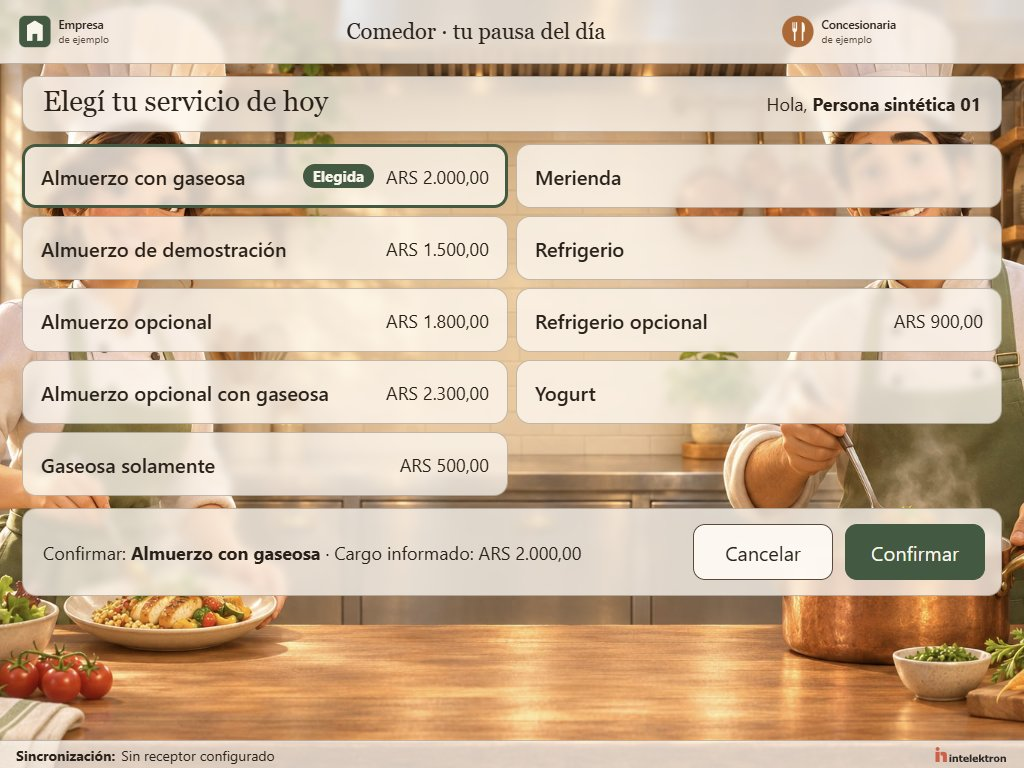
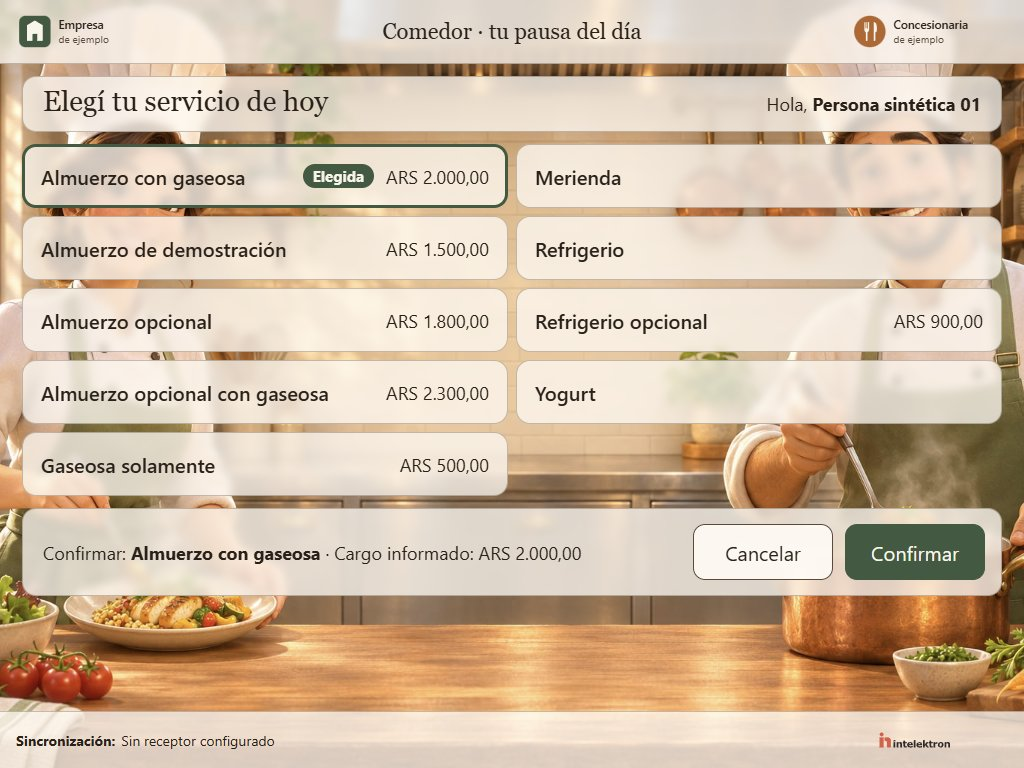
mover-engranaje-al-pie: capturas 06 a 10, textos del engranaje y enlaces del archivado
Evidencia y documentos del change (grupo 2):

- docs/capturas/06 a 10 rehechas por CDP a 1024 x 768 con el puesto nuevo: engranaje en el borde
  inferior derecho, cabecera sin control, pie del mismo alto en todos los estados. Miradas una a una.
- readme.md y el Purpose de la spec presentacion-puesto ubican el engranaje en el pie.
- Los siete enlaces que rompió el archivado de presentar-atencion-tactil (145ccc8) en prompts.md,
  docs/aplicacion-del-curso.md, docs/cobertura-entrega.md y docs/plan-academico.md van a su carpeta
  de archive; el chequeo de enlaces relativos de D8 pasa de 7 rotos a 0, con su control negativo.
- La fila de accesibilidad de docs/aplicacion-del-curso.md suma este change.

Claude-Session: https://claude.ai/code/session_017s6oDeBhSQqyWpZJrUjjbr

Changed region(s): [[0.0, 0.9062, 1.0, 1.0], [0.75, 0.0, 0.9375, 0.0625], [0.3438, 0.0312, 0.625, 0.0625]]

diff --git a/docs/cobertura-entrega.md b/docs/cobertura-entrega.md
@@ -4,7 +4,7 @@ Actualizado el 01/11/2026. La entrega final se evalúa contra la lección 58 vig
 
 | Requisito | Fuente | Evidencia | Estado |
 |---|---|---|---|
-| De 3 a 5 funcionalidades 100 % operativas | L58:82 | Las primeras cuatro piezas fueron la [confirmación atómica](../openspec/specs/registro-consumo/spec.md), la [pantalla de demostración](../openspec/specs/modo-demostracion/spec.md), el [receptor de lotes](../openspec/specs/sincronizacion-lotes/spec.md) y la [habilitación local de RB02](../openspec/specs/habilitacion-local/spec.md) (persona activa, credencial de la sesión, vigencia, regla cero y prioridad), con su [evaluador](../src/Intelektron.INComedor.Domain/EvaluadorHabilitacion.cs) y 41 pruebas. Con [`atender-seleccion-y-confirmacion`](../openspec/changes/archive/2026-10-30-atender-seleccion-y-confirmacion/proposal.md) se suman la atención (identificación simulada por código, catálogo paginado, confirmación con un solo `IntentId` y reconfirmación por cambio de catálogo, en la [máquina de estados](../src/Intelektron.INComedor.Kiosk/Atencion/MaquinaAtencion.cs)) y el comprobante ([envío después del commit](../src/Intelektron.INComedor.Infrastructure.Sqlite/TrabajosImpresion.cs) y [recuperación o reimpresión con permiso OPERATOR](../src/Intelektron.INComedor.Infrastructure.Sqlite/Asistencia.cs)), con 81 pruebas nuevas y el puesto real recorrido el 30/10. Con [`recibir-lotes-idempotente`](../openspec/changes/archive/2026-10-30-recibir-lotes-idempotente/proposal.md) el receptor ingiere lotes idempotentes sobre SQL Server con TLS mutuo ([ingesta](../src/Intelektron.INComedor.Sync.Api/Ingesta/IngestaLotes.cs)) y el puesto envía su outbox sin cortar la atención ([sincronizador](../src/Intelektron.INComedor.Infrastructure.Sqlite/SincronizadorPuesto.cs)), con 142 pruebas nuevas. Todas las pruebas, con el E2E, corren en la CI de `windows-latest`; al integrarse el #5 en `final-project-dw` estaban en verde ([corrida 41154943372](https://github.com/DaveWalf/AI4Devs-finalproject/actions/runs/41154943372), cuatro intentos sobre el mismo commit), y su cifra está en la [§2.6 del README](../readme.md#26-tests). En la rama de [`presentar-atencion-tactil`](../openspec/changes/presentar-atencion-tactil/proposal.md), todavía sin integrar en `final-project-dw`, la atención suma su aspecto táctil: distribución por cantidad (hasta diez juntas, en una o dos columnas; desde once, páginas de diez), opción sin cargo sin importe, fondo «Cocina con sonrisas», cabecera con logos locales validados, Configuración con el estilo visual y la impresora simulada, comprobante en pantalla y ventana maximizada, con 65 casos de prueba nuevos, 3 de ellos en la ventana real, y las [capturas](../readme.md#cómo-ver-la-demostración) a 1024 × 768. | Cubierto |
+| De 3 a 5 funcionalidades 100 % operativas | L58:82 | Las primeras cuatro piezas fueron la [confirmación atómica](../openspec/specs/registro-consumo/spec.md), la [pantalla de demostración](../openspec/specs/modo-demostracion/spec.md), el [receptor de lotes](../openspec/specs/sincronizacion-lotes/spec.md) y la [habilitación local de RB02](../openspec/specs/habilitacion-local/spec.md) (persona activa, credencial de la sesión, vigencia, regla cero y prioridad), con su [evaluador](../src/Intelektron.INComedor.Domain/EvaluadorHabilitacion.cs) y 41 pruebas. Con [`atender-seleccion-y-confirmacion`](../openspec/changes/archive/2026-10-30-atender-seleccion-y-confirmacion/proposal.md) se suman la atención (identificación simulada por código, catálogo paginado, confirmación con un solo `IntentId` y reconfirmación por cambio de catálogo, en la [máquina de estados](../src/Intelektron.INComedor.Kiosk/Atencion/MaquinaAtencion.cs)) y el comprobante ([envío después del commit](../src/Intelektron.INComedor.Infrastructure.Sqlite/TrabajosImpresion.cs) y [recuperación o reimpresión con permiso OPERATOR](../src/Intelektron.INComedor.Infrastructure.Sqlite/Asistencia.cs)), con 81 pruebas nuevas y el puesto real recorrido el 30/10. Con [`recibir-lotes-idempotente`](../openspec/changes/archive/2026-10-30-recibir-lotes-idempotente/proposal.md) el receptor ingiere lotes idempotentes sobre SQL Server con TLS mutuo ([ingesta](../src/Intelektron.INComedor.Sync.Api/Ingesta/IngestaLotes.cs)) y el puesto envía su outbox sin cortar la atención ([sincronizador](../src/Intelektron.INComedor.Infrastructure.Sqlite/SincronizadorPuesto.cs)), con 142 pruebas nuevas. Todas las pruebas, con el E2E, corren en la CI de `windows-latest`; al integrarse el #5 en `final-project-dw` estaban en verde ([corrida 41154943372](https://github.com/DaveWalf/AI4Devs-finalproject/actions/runs/41154943372), cuatro intentos sobre el mismo commit), y su cifra está en la [§2.6 del README](../readme.md#26-tests). En la rama de [`presentar-atencion-tactil`](../openspec/changes/archive/2026-11-03-presentar-atencion-tactil/proposal.md), todavía sin integrar en `final-project-dw`, la atención suma su aspecto táctil: distribución por cantidad (hasta diez juntas, en una o dos columnas; desde once, páginas de diez), opción sin cargo sin importe, fondo «Cocina con sonrisas», cabecera con logos locales validados, Configuración con el estilo visual y la impresora simulada, comprobante en pantalla y ventana maximizada, con 65 casos de prueba nuevos, 3 de ellos en la ventana real, y las [capturas](../readme.md#cómo-ver-la-demostración) a 1024 × 768. | Cubierto |
 | Tests unitarios sobre la lógica clave | L58:94 | 68 pruebas de dominio en [Domain.Tests](../tests/Intelektron.INComedor.Domain.Tests/EvaluadorCupoTests.cs): fecha de negocio, cupo, habilitación y value objects, y 23 de Contracts. | Cubierto |
 | Tests de integración entre componentes | L58:95 | 117 pruebas sobre SQLite real, como [`CaidasYConcurrenciaTests`](../tests/Intelektron.INComedor.Infrastructure.Sqlite.Tests/CaidasYConcurrenciaTests.cs); 62 contra el receptor real (Kestrel, TLS mutuo y SQL Server), como [`LoteIdempotenteTests`](../tests/Intelektron.INComedor.Sync.Api.Tests/LoteIdempotenteTests.cs), y 5 de punta a punta en [`EnvioDeLotesIntegradoTests`](../tests/Intelektron.INComedor.Kiosk.Tests/EnvioDeLotesIntegradoTests.cs). Corren en la CI, en verde en la [corrida 41154943372](https://github.com/DaveWalf/AI4Devs-finalproject/actions/runs/41154943372). | Cubierto |
 | Al menos un test E2E del flujo principal | L58:96 | [`FlujoPrincipalTests`](../tests/Intelektron.INComedor.E2E.Tests/FlujoPrincipalTests.cs) recorre el escenario E2E de [`pruebas.md`](pruebas.md#pruebas-previstas) sobre los EXE del puesto y del receptor, por CDP, con el receptor apagado y recuperado, y también contra el EXE del paquete publicado. Lo trajo [`demostrar-flujo-de-punta-a-punta`](../openspec/changes/archive/2026-10-30-demostrar-flujo-de-punta-a-punta/proposal.md). Corre en la CI de `windows-latest` ([corridas 41108336041](https://github.com/DaveWalf/AI4Devs-finalproject/actions/runs/41108336041) y [41154943372](https://github.com/DaveWalf/AI4Devs-finalproject/actions/runs/41154943372)). | Cubierto |

diff --git a/openspec/changes/mover-engranaje-al-pie/tasks.md b/openspec/changes/mover-engranaje-al-pie/tasks.md
@@ -39,9 +39,38 @@ Las pruebas existentes no se tocan, salvo `CabeceraTests.En_reposo_un_solo_boton
 
 ## 2. Evidencia y documentos
 
-- [ ] 2.1 Rehacer `docs/capturas/06` a `10` con el procedimiento de D4, mirarlas (engranaje en el borde inferior derecho, cabecera sin control, nada cortado a 1024 × 768) y verificar con `git diff --stat -- docs/capturas` que sólo cambian esas cinco
-- [ ] 2.2 Actualizar en `readme.md` el texto que ubica el engranaje en la cabecera (línea 314 en `2ca6559`) y el texto alternativo de la captura 06; en `openspec/specs/presentacion-puesto/spec.md`, el `Purpose`, que nombra «la cabecera con los logos y el engranaje». Verificar con `git grep -n -i "engranaje de la cabecera\|cabecera con los logos y el engranaje"` sin resultados
-- [ ] 2.3 Llevar los enlaces de D5 a `openspec/changes/archive/2026-11-03-presentar-atencion-tactil/` y sumar `mover-engranaje-al-pie` a la fila de accesibilidad de `docs/aplicacion-del-curso.md`. Verificar con el chequeo de enlaces relativos de D8 de `mostrar-aplicacion-del-curso` (`enlaces rotos: 0`, con su control negativo) y con `git grep -n "openspec/changes/presentar-atencion-tactil/" -- "*.md"` sin resultados fuera de `openspec/changes/archive/`
+- [x] 2.1 Rehacer `docs/capturas/06` a `10` con el procedimiento de D4, mirarlas (engranaje en el borde inferior derecho, cabecera sin control, nada cortado a 1024 × 768) y verificar con `git diff --stat -- docs/capturas` que sólo cambian esas cinco
+  Capturas por CDP a 1024 × 768 (JPEG a escala CSS, calidad 85), con el puesto compilado de este commit en una carpeta nueva de `INCOMEDOR_DEMO_DIR` por corrida y sin receptor, como las anteriores: `06-reposo-tactil.jpg`, `07-seleccion-nueve.jpg`, `09-comprobante-en-pantalla.jpg` y `10-configuracion.jpg` con `INCOMEDOR_CATALOGO=nueve`; `08-quince-primera-pagina.jpg` sin la variable. Procedimiento: PowerShell 7 con WebSocket crudo sobre el CDP del puesto (`Emulation.setDeviceMetricsOverride` y `Page.captureScreenshot`), un script de la sesión que no entra al repo; cada corrida cierra el puesto con `taskkill /T` y borra su carpeta.
+  Miradas con `Read` contra D4: **06** engranaje en el borde inferior derecho, a la derecha de la marca Intelektron, cabecera con los dos logos y el título y sin ningún control; **10** Configuración abierta sobre el reposo, con el engranaje del pie atenuado detrás del velo (el pie es inerte) y el diálogo entero dentro de 768; **07** nueve opciones en 5 + 4 con «Almuerzo con gaseosa» y «Elegida», «Cancelar» y «Confirmar» visibles, y en el pie el lugar del engranaje vacío; **08** diez opciones en dos columnas, «Página 1 de 2», pie igual; **09** el comprobante completo, pie igual. En las cinco la cabecera no tiene control, nada queda cortado y el pie no cambia de alto. No hizo falta corregir nada.
+  ```
+  git diff --stat -- docs/capturas
+   docs/capturas/06-reposo-tactil.jpg           | Bin 131817 -> 128986 bytes
+   docs/capturas/07-seleccion-nueve.jpg         | Bin 136162 -> 133496 bytes
+   docs/capturas/08-quince-primera-pagina.jpg   | Bin 134608 -> 131886 bytes
+   docs/capturas/09-comprobante-en-pantalla.jpg | Bin 136282 -> 132959 bytes
+   docs/capturas/10-configuracion.jpg           | Bin 111766 -> 109571 bytes
+   5 files changed
+  ```
+- [x] 2.2 Actualizar en `readme.md` el texto que ubica el engranaje en la cabecera (línea 314 en `2ca6559`) y el texto alternativo de la captura 06; en `openspec/specs/presentacion-puesto/spec.md`, el `Purpose`, que nombra «la cabecera con los logos y el engranaje». Verificar con `git grep -n -i "engranaje de la cabecera\|cabecera con los logos y el engranaje"` sin resultados
+  `readme.md:314` pasa a «El engranaje del pie, en el borde inferior derecho al lado de la marca Intelektron y sólo en reposo, abre Configuración…»; el texto alternativo de la captura 06 suma «en el borde inferior derecho»; el `Purpose` de `openspec/specs/presentacion-puesto/spec.md` pasa a «la cabecera con los logos, el engranaje en el pie, la ventana…».
+  ```
+  git grep -n -i "engranaje de la cabecera\|cabecera con los logos y el engranaje" -- . ':!openspec/changes/archive' ':!openspec/changes/mover-engranaje-al-pie'
+  (sin salida)  exit=1
+  ```
+  Con el literal de la tarea, sin exclusiones, el grep todavía encuentra dos líneas que no son texto vivo: el delta congelado de `openspec/changes/archive/2026-11-03-presentar-atencion-tactil/specs/presentacion-puesto/spec.md:5` y esta misma tarea, que cita la frase.
+- [x] 2.3 Llevar los enlaces de D5 a `openspec/changes/archive/2026-11-03-presentar-atencion-tactil/` y sumar `mover-engranaje-al-pie` a la fila de accesibilidad de `docs/aplicacion-del-curso.md`. Verificar con el chequeo de enlaces relativos de D8 de `mostrar-aplicacion-del-curso` (`enlaces rotos: 0`, con su control negativo) y con `git grep -n "openspec/changes/presentar-atencion-tactil/" -- "*.md"` sin resultados fuera de `openspec/changes/archive/`
+  Los siete enlaces de D5 (`prompts.md:123` ×3, `docs/aplicacion-del-curso.md:70`, `docs/cobertura-entrega.md:7`, `docs/plan-academico.md:83-84`) van a `openspec/changes/archive/2026-11-03-presentar-atencion-tactil/`; la fila de accesibilidad de `docs/aplicacion-del-curso.md` suma `mover-engranaje-al-pie` como nombre, sin enlace propio, para no repetir el defecto de D5 cuando este change se archive. Chequeo de enlaces relativos de D8 de `mostrar-aplicacion-del-curso` (el script, copiado tal cual a un archivo de la sesión), sobre `prompts.md`, `readme.md`, `docs/aplicacion-del-curso.md`, `docs/cobertura-entrega.md` y `docs/plan-academico.md`:
+  ```
+  antes:  ROTO prompts.md:123 ×3 · ROTO docs/aplicacion-del-curso.md:70 · ROTO docs/cobertura-entrega.md:7 · ROTO docs/plan-academico.md:83 y :84
+          enlaces rotos: 7
+  control negativo (.md con un archivo inexistente, un ancla falsa y un ancla válida):
+          ROTO …\a.md:2 noexiste.md · ANCLA …\a.md:2 a.md#falsa
+          enlaces rotos: 2
+  después: enlaces rotos: 0
+  git grep -n "openspec/changes/presentar-atencion-tactil/" -- "*.md"   (archivos con resultados)
+          openspec/changes/archive/2026-11-03-presentar-atencion-tactil/tasks.md · openspec/changes/mover-engranaje-al-pie/design.md · openspec/changes/mover-engranaje-al-pie/tasks.md
+  ```
+  Ninguno está fuera de `openspec/changes/archive/` salvo `design.md` y `tasks.md` de este change, que citan la ruta vieja para describir el defecto.
 
 ## 3. Integración
 

diff --git a/docs/aplicacion-del-curso.md b/docs/aplicacion-del-curso.md
@@ -67,7 +67,7 @@ Las citas siguen la numeración del curso v20261027, la vigente: `L58:232` es la
 | Capas o hexagonal con criterio | lección 95 | Aplicada | Proyectos separados por responsabilidad: [Domain](../src/Intelektron.INComedor.Domain/EvaluadorCupo.cs), [Infrastructure.Sqlite](../src/Intelektron.INComedor.Infrastructure.Sqlite/UnidadConfirmacion.cs), [Contracts](../src/Intelektron.INComedor.Contracts/Eventos/EventosSalida.cs), [Kiosk](../src/Intelektron.INComedor.Kiosk/MainWindow.xaml.cs) y [Sync.Api](../src/Intelektron.INComedor.Sync.Api/Program.cs). Sin hexagonal completo en el MVP. |
 | Value objects con invariantes y entidades no anémicas | lección 95 | Aplicada | [`CodigoIntencion`](../src/Intelektron.INComedor.Domain/CodigoIntencion.cs), [`FechaNegocio`](../src/Intelektron.INComedor.Domain/FechaNegocio.cs) y [`ClaveCupo`](../src/Intelektron.INComedor.Domain/ClaveCupo.cs), con sus [pruebas de invariantes](../tests/Intelektron.INComedor.Domain.Tests/ValueObjectsTests.cs). |
 | Dependencias mínimas | sesión 10 | Aplicada | Sin ORM en el puesto: `Microsoft.Data.Sqlite` y SQL explícito para RB06, por regla de [`AGENTS.md`](../AGENTS.md) y con versiones fijadas en [`Directory.Packages.props`](../Directory.Packages.props). |
-| Componentes pequeños, estados de UI y accesibilidad WCAG 2.2 AA | lección 101, sesión 10 | Pendiente | Los estados (reposo, selección, confirmando, resultado y error, con foco y teclado) los trajo `atender-seleccion-y-confirmacion`. El change [`presentar-atencion-tactil`](../openspec/changes/presentar-atencion-tactil/proposal.md), sin integrar todavía en la rama final, suma componentes chicos ([`PanelConfiguracion`](../src/Intelektron.INComedor.Kiosk/Atencion/PanelConfiguracion.razor), [`FranjaImpresora`](../src/Intelektron.INComedor.Kiosk/Atencion/FranjaImpresora.razor)), acciones de 56 px, la elegida marcada también con texto, un diálogo modal con Escape y movimiento reducido, medidos en la ventana real por [`PresentacionTactilTests`](../tests/Intelektron.INComedor.E2E.Tests/PresentacionTactilTests.cs). Sigue pendiente lo que el change deja fuera: el contraste certificado y las escalas de Windows de 125 y 150 %. |
+| Componentes pequeños, estados de UI y accesibilidad WCAG 2.2 AA | lección 101, sesión 10 | Pendiente | Los estados (reposo, selección, confirmando, resultado y error, con foco y teclado) los trajo `atender-seleccion-y-confirmacion`. El change [`presentar-atencion-tactil`](../openspec/changes/archive/2026-11-03-presentar-atencion-tactil/proposal.md), sin integrar todavía en la rama final, suma componentes chicos ([`PanelConfiguracion`](../src/Intelektron.INComedor.Kiosk/Atencion/PanelConfiguracion.razor), [`FranjaImpresora`](../src/Intelektron.INComedor.Kiosk/Atencion/FranjaImpresora.razor)), acciones de 56 px, la elegida marcada también con texto, un diálogo modal con Escape y movimiento reducido, medidos en la ventana real por [`PresentacionTactilTests`](../tests/Intelektron.INComedor.E2E.Tests/PresentacionTactilTests.cs). El change `mover-engranaje-al-pie`, en la misma rama, lleva el engranaje al borde inferior derecho del pie, con el pie de 56 px y su posición medida en esa misma prueba. Sigue pendiente lo que el change deja fuera: el contraste certificado y las escalas de Windows de 125 y 150 %. |
 | Refactor con tests de caracterización | sesión 9 | Aplicada | [`ea6e7d5`](https://github.com/DaveWalf/AI4Devs-finalproject/commit/ea6e7d5) movió los eventos de outbox a `Contracts` sin cambiar su JSON, y [`ContratoEventosTests`](../tests/Intelektron.INComedor.Infrastructure.Sqlite.Tests/ContratoEventosTests.cs) fijó ese JSON. |
 
 ### Pruebas

diff --git a/prompts.md b/prompts.md
@@ -120,7 +120,7 @@ Los ajustes manuales que el autor hizo sobre lo que produjo la IA, cada uno con 
     - tres variables y no una, porque aislar los datos, cambiar el receptor y abrir la depuración son cosas distintas.
 
     En el apply, la tarea que abre el puesto sin variables creaba la carpeta de demostración del usuario, que el paso del apply sólo dejaba leer. El autor eligió correrla y borrar la carpeta al final, porque antes no existía. Evidencia: los puntos 8 y 9 de «Para el gate de David» en el [proposal](openspec/changes/archive/2026-10-30-demostrar-flujo-de-punta-a-punta/proposal.md#para-el-gate-de-david), D2 y D3 del [design](openspec/changes/archive/2026-10-30-demostrar-flujo-de-punta-a-punta/design.md) y las salidas de 3.3 y 3.4 en las [tareas](openspec/changes/archive/2026-10-30-demostrar-flujo-de-punta-a-punta/tasks.md).
-13. **La maqueta antes de la spec, y tres pruebas en el gate.** Entre el 01 y el 03/11 el autor definió en una maqueta, hecha con Codex fuera del repo, cómo se ve y se comporta la atención: la distribución por cantidad, los criterios táctiles, la dirección gráfica «Cocina con sonrisas», los logos y el estilo configurable. El 03/11 decidió dejar la maqueta y probarlo en el ejecutable, y sus decisiones pasaron a requisitos en el change `presentar-atencion-tactil`. En el gate aprobó tal cual las ocho decisiones tomadas, entre ellas cambiar tres pruebas existentes, sólo en sus números, por las páginas de diez (`TotalPaginas` de 3 a 2, y 6 a 10 opciones visibles en dos pruebas de pantalla), la marca Intelektron en el repo como su dueño y el fondo generado por Codex con su prompt como procedencia; dio su talla, M. Evidencia: «Para el gate de David» en el [proposal](openspec/changes/presentar-atencion-tactil/proposal.md#para-el-gate-de-david), D1 del [design](openspec/changes/presentar-atencion-tactil/design.md) y la tarea 2.2 de sus [tareas](openspec/changes/presentar-atencion-tactil/tasks.md), con el diff pegado.
+13. **La maqueta antes de la spec, y tres pruebas en el gate.** Entre el 01 y el 03/11 el autor definió en una maqueta, hecha con Codex fuera del repo, cómo se ve y se comporta la atención: la distribución por cantidad, los criterios táctiles, la dirección gráfica «Cocina con sonrisas», los logos y el estilo configurable. El 03/11 decidió dejar la maqueta y probarlo en el ejecutable, y sus decisiones pasaron a requisitos en el change `presentar-atencion-tactil`. En el gate aprobó tal cual las ocho decisiones tomadas, entre ellas cambiar tres pruebas existentes, sólo en sus números, por las páginas de diez (`TotalPaginas` de 3 a 2, y 6 a 10 opciones visibles en dos pruebas de pantalla), la marca Intelektron en el repo como su dueño y el fondo generado por Codex con su prompt como procedencia; dio su talla, M. Evidencia: «Para el gate de David» en el [proposal](openspec/changes/archive/2026-11-03-presentar-atencion-tactil/proposal.md#para-el-gate-de-david), D1 del [design](openspec/changes/archive/2026-11-03-presentar-atencion-tactil/design.md) y la tarea 2.2 de sus [tareas](openspec/changes/archive/2026-11-03-presentar-atencion-tactil/tasks.md), con el diff pegado.
 
 ## Anexo A. Registro de la entrega 1 (29/09/2026)
 

diff --git a/docs/plan-academico.md b/docs/plan-academico.md
@@ -80,8 +80,8 @@ Desde `evaluar-habilitacion-local` cada change declara dos tallas, la de David y
 | [`recibir-lotes-idempotente`](../openspec/changes/archive/2026-10-30-recibir-lotes-idempotente/proposal.md#tallas) | La IA (Claude Code, Opus 5.5), 30/10/2026 | S | 2 a 4 h | 2,9 a 5,7 h |
 | [`demostrar-flujo-de-punta-a-punta`](../openspec/changes/archive/2026-10-30-demostrar-flujo-de-punta-a-punta/proposal.md#tallas) | David, 30/10/2026 | S | 2 a 4 h | 2,9 a 5,7 h |
 | [`demostrar-flujo-de-punta-a-punta`](../openspec/changes/archive/2026-10-30-demostrar-flujo-de-punta-a-punta/proposal.md#tallas) | La IA (Claude Code, Opus 5.5), 30/10/2026 | S | 2 a 4 h | 2,9 a 5,7 h |
-| [`presentar-atencion-tactil`](../openspec/changes/presentar-atencion-tactil/proposal.md#tallas) | David, 03/11/2026 | M | 4 a 8 h | 5,7 a 11,4 h |
-| [`presentar-atencion-tactil`](../openspec/changes/presentar-atencion-tactil/proposal.md#tallas) | La IA (Claude Code, Opus 5.5), 03/11/2026 | M | 4 a 6 h | 5,7 a 8,6 h |
+| [`presentar-atencion-tactil`](../openspec/changes/archive/2026-11-03-presentar-atencion-tactil/proposal.md#tallas) | David, 03/11/2026 | M | 4 a 8 h | 5,7 a 11,4 h |
+| [`presentar-atencion-tactil`](../openspec/changes/archive/2026-11-03-presentar-atencion-tactil/proposal.md#tallas) | La IA (Claude Code, Opus 5.5), 03/11/2026 | M | 4 a 6 h | 5,7 a 8,6 h |
 
 Horas reales del apply de ese change, medidas con el reloj de la sesión del 29/10/2026: **0,2 h** de la IA (12 minutos de reloj, de las 20:32 a las 20:44), con los cuatro grupos de tareas y sin la propuesta, el gate ni el informe de `/openspec-verify-change`. Quedan fuera, y no se midieron, la revisión del gate, el archivado y el PR, que son de David. La talla M de la IA sobreestimó el trabajo de la IA por un orden de magnitud; la S de David cubre además esas horas humanas. La reestimación del próximo change parte de esta diferencia y no de promediar.
 

diff --git a/readme.md b/readme.md
@@ -311,7 +311,7 @@ dejarlos en la carpeta de datos como `marcas\empresa.png` y `marcas\concesionari
 de hasta 2 MB; con dos formatos gana el `.png`). Un archivo que no corresponde a su extensión, que pasa de 2 MB o
 un SVG con DTD se ignora y queda el de ejemplo. Se leen al abrir la atención.
 
-El engranaje de la cabecera, sólo en reposo, abre Configuración **sin clave en este corte** (la clave llega con el
+El engranaje del pie, en el borde inferior derecho al lado de la marca Intelektron y sólo en reposo, abre Configuración **sin clave en este corte** (la clave llega con el
 segundo change): «Estilo visual», con la opacidad de las superficies (72 a 88 %, 76 % por defecto) y el
 desenfoque del fondo (0 a 12 px, 4 px por defecto) con vista previa, «Guardar» en `estilo-visual.json` de la
 carpeta de datos y «Cancelar» o Escape; y, con la impresora simulada, sus modos. Cualquiera que toque el puesto en
@@ -319,7 +319,7 @@ reposo puede cambiar el estilo o simular una impresora sin papel.
 
 | Reposo | Nueve opciones: 5 + 4 | Quince: primera página de diez |
 |---|---|---|
-| ![Reposo con el fondo de cocina, los logos de ejemplo y el engranaje](docs/capturas/06-reposo-tactil.jpg) | ![Nueve opciones en dos columnas con «Almuerzo con gaseosa» elegida](docs/capturas/07-seleccion-nueve.jpg) | ![Diez opciones en dos columnas, «Página 1 de 2»](docs/capturas/08-quince-primera-pagina.jpg) |
+| ![Reposo con el fondo de cocina, los logos de ejemplo y el engranaje en el borde inferior derecho](docs/capturas/06-reposo-tactil.jpg) | ![Nueve opciones en dos columnas con «Almuerzo con gaseosa» elegida](docs/capturas/07-seleccion-nueve.jpg) | ![Diez opciones en dos columnas, «Página 1 de 2»](docs/capturas/08-quince-primera-pagina.jpg) |
 
 | Comprobante en pantalla | Configuración |
 |---|---|

diff --git a/openspec/specs/presentacion-puesto/spec.md b/openspec/specs/presentacion-puesto/spec.md
@@ -1,7 +1,7 @@
 # presentacion-puesto Specification
 
 ## Purpose
-Cómo se ve y se adapta el puesto en una pantalla táctil: el aspecto, la cabecera con los logos y el engranaje, la ventana y el estilo visual configurable, sin cambiar lo que la atención decide ni registra.
+Cómo se ve y se adapta el puesto en una pantalla táctil: el aspecto, la cabecera con los logos, el engranaje en el pie, la ventana y el estilo visual configurable, sin cambiar lo que la atención decide ni registra.
 
 ## Requirements
 
